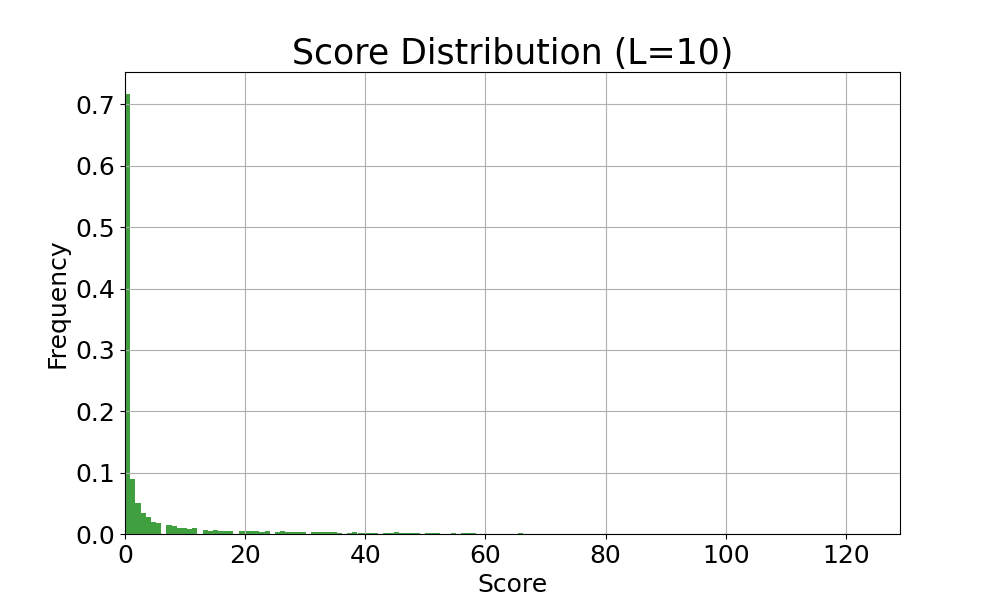
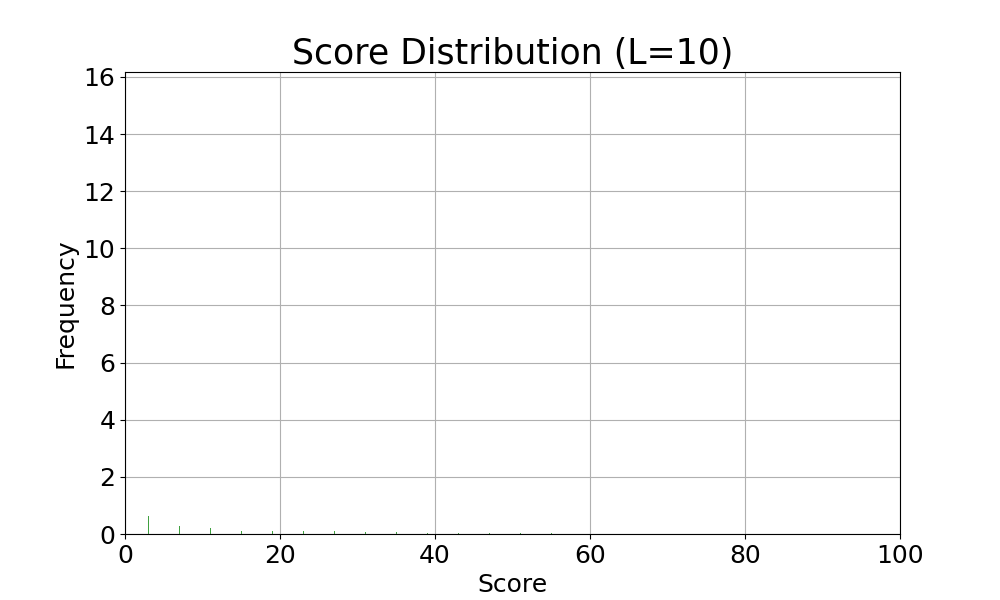
in yue's laptop

diff --git a/code/B_tree.py b/code/B_tree.py
@@ -1,6 +1,8 @@
 import numpy as np
 import matplotlib.pyplot as plt
 import os
+from scipy.stats import expon
+from scipy.stats import kstest
 
 def random_block(L,gridll):
     """
@@ -120,13 +122,15 @@ def plot_score_distribution_and_save(score_list, L):
     绘制得分的频率分布直方图，并进行归一化
     """
     plt.figure(figsize=(10, 6))  
-    n, bins, patches = plt.hist(score_list, bins=150, 
-                                density=True, facecolor='g', alpha=0.75)  
+    wight_list = np.ones_like(score_list)/float(len(score_list))
+    n, bins, patches = plt.hist(score_list, bins=1200, 
+                                density=False, weights=wight_list, facecolor='g', alpha=0.75)  
    
     
     plt.xlabel('Score',fontsize=18)
     plt.ylabel('Frequency', fontsize=18) 
-    plt.xlim(0,max(score_list)) 
+    plt.xlim(0,40) 
+    plt.ylim(0,0.8)
     plt.title(f'Score Distribution (L={L})',fontsize=25) 
     plt.xticks(fontsize=18)
     plt.yticks(fontsize=18)
@@ -136,6 +140,26 @@ def plot_score_distribution_and_save(score_list, L):
     plt.savefig(save_path) 
     plt.show() 
    
+# def plot_score_distribution_for_n_L(L_list, total_time):
+#     score_list_for_L = {}
+#     for L in L_list:
+#         _, score_list, _ = main(total_time, L)  # 提取得分列表
+#         score_list_for_L[f"score_{L}"] = score_list
+#         plt.hist(score_list_for_L[f"score_{L}"], bins=3000,
+#                  alpha=0.5, label=f"L = {L}", density=True)
+
+#     plt.xlabel('Score')
+#     plt.ylabel('Frequency')
+#     plt.title('Score Distribution of multiple L')
+#     plt.xlim(0, 50)
+#     plt.legend()
+#     plt.grid(True)
+
+#     save_path = f"./figure/B_for_n_L.png"
+#     os.makedirs(os.path.dirname(save_path), exist_ok=True)
+#     plt.savefig(save_path)
+#     plt.show()
+
 
 def main_1(average_density):
     """
@@ -149,20 +173,37 @@ def main_1(average_density):
     plt.yticks(fontsize=18)
     plt.show()
 
+
+# # 生成图像
+# if __name__ == '__main__':
+#     # L = 30
+#     # total_time = 16000
+#     # gridll,score_list,average_density = main(total_time,L)
+#     # main_1(average_density)
+#     # # xmax = {5:20,10:35,15:70,20:100,25:200,30:200,32:200,35:250,40:250}
+#     # plot_score_distribution(score_list, L)
+#     L_list = [30,35,40,45,32]
+#     # L_list = [32]
+#     # print(f"L={L},the maximum score is:",max(score_list))
+#     for L in L_list:
+#         total_time = 16000
+#         gridll,score_list,average_density = main(total_time,L)
+#         print(f"L={L},the maximum score is:",max(score_list))
+#         plot_score_distribution_and_save(score_list, L)
+
+
+# if __name__ == '__main__':
+#     L_list= [10,20,30,40,50]
+#     total_time = 8000
+#     plot_score_distribution_for_n_L(L_list,total_time)
+
+# 验证指数分布
 if __name__ == '__main__':
     L = 32
-    total_time = 8000
+    total_time = 16000
     gridll,score_list,average_density = main(total_time,L)
-    # main_1(average_density)
-    plot_score_distribution(score_list, L)
-    L_list = [5,10,15,20,25,30,35,40]
-    print(f"L={L},the maximum score is:",max(score_list))
-    for L in L_list:
-        total_time = 8000
-        gridll,score_list,average_density = main(total_time,L)
-        print(f"L={L},the maximum score is:",max(score_list))
-        plot_score_distribution_and_save(score_list, L)
-
-    
-
-
+    # 验证指数分布
+    data = np.array(score_list)
+    df = 4
+    result = kstest(data, 'chi2',args = (df,))
+    print(result)

diff --git a/figure/README.md b/figure/README.md
@@ -133,7 +133,7 @@ $x_0=0.5$:
 $x_0=0.99$:
 ![$x_0=0.99$](A_2_0.99.png) 
 
-综合以上结果，我们发现对于不同的$x-0$取值，以上得到的基本现象是一致的。
+综合以上结果，我们发现对于不同的$x_0$取值，以上得到的基本现象是一致的。
 
 ### B.开心消消乐
 
